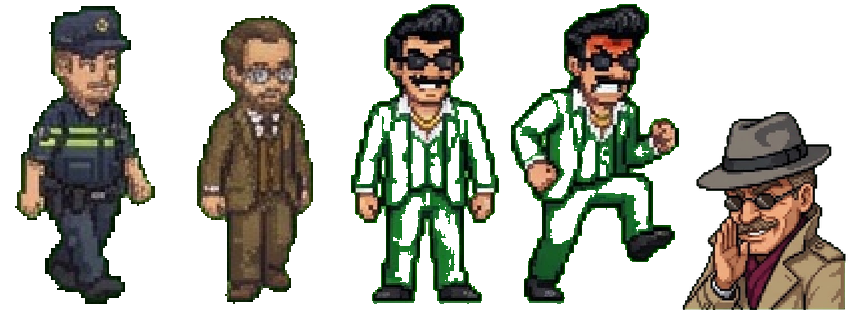
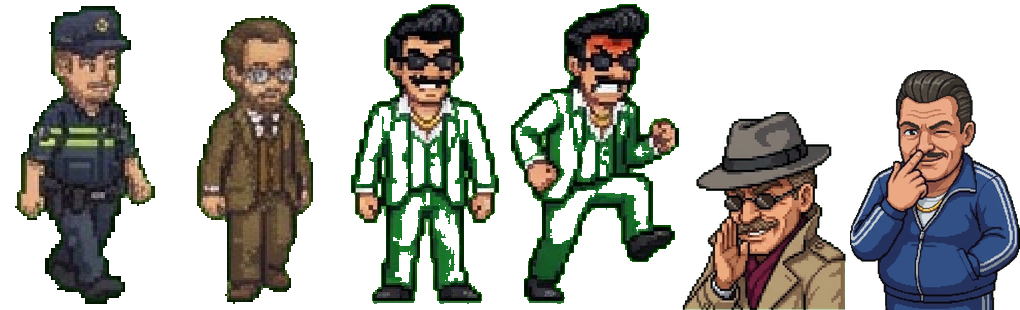
Pizzabaas: Barrie de Bink en zijn klusjes tegen Luigi, ruzie en vrede
Claude-Session: https://claude.ai/code/session_01A1NZDKEqH4AvFTuhgNYDbP

diff --git a/pizzabaas.html b/pizzabaas.html
@@ -66,7 +66,7 @@
   #vraagkaart { text-align: center; max-width: 400px; animation: plop .25s ease-out; }
   @keyframes plop { from { transform: scale(.7); opacity: 0; } }
   .vraagik { font-size: 54px; line-height: 1.1; }
-  .portret { width: 85px; height: 155px; margin: -6px auto 0; background: url(pizza/portretten.png) 0 0 / 425px 155px no-repeat; image-rendering: pixelated; } /* agent, inspecteur (uit pizza/agent-gemini.jpg, pizza/inspecteur-gemini.jpg) */
+  .portret { width: 85px; height: 155px; margin: -6px auto 0; background: url(pizza/portretten.png) 0 0 / 510px 155px no-repeat; image-rendering: pixelated; } /* agent, inspecteur (uit pizza/agent-gemini.jpg, pizza/inspecteur-gemini.jpg) */
   .vraagwie { font-weight: 800; color: #b5381c; font-size: 15px; }
   .vraagtekst { font-size: 17px; margin: 8px 0 12px; }
   .antwoord { display: block; width: 100%; text-align: left; border: 0; background: #f1e1c4; color: #3a2414; border-radius: 12px; padding: 10px 12px; margin: 7px 0 0; font: 600 15px system-ui, sans-serif; cursor: pointer; }
@@ -610,7 +610,7 @@ function openDeuren() {
   bezoeker = null; vlekken = []; rat = null; vandaag = VANDAAG(); if (S.morgen) { Object.assign(vandaag, S.morgen); S.morgen = null; } planVragen();
   if (S.bonnen && S.bonnen.tot >= S.dag) { vandaag.aankomst *= 1 + 0.4 * S.bonnen.q; if (kans(0.12 + (1 - S.bonnen.q) * 0.4)) S.verplicht = [...(S.verplicht || []), 'luigiBoos']; } // valse bonnen
   sabotageVandaag(); if (S.studentenMorgen) { vandaag.studenten = true; S.studentenMorgen = false; } // flyers bij het studentenhuis
-  vandaag.aankomst *= (BUURT[S.buurt] || BUURT.oud).aankomst; const fd = feestdag(); vandaag.aankomst *= DRUKTE[weekdag()] * (fd ? fd.aankomst : 1); vandaag.kaars = fd && fd.kaars;
+  vandaag.aankomst *= (BUURT[S.buurt] || BUURT.oud).aankomst; if (klusLoopt()) vandaag.aankomst *= 1 + KLUS[S.klus.k].bonus; /* Barrie heeft Luigi een hak gezet */ const fd = feestdag(); vandaag.aankomst *= DRUKTE[weekdag()] * (fd ? fd.aankomst : 1); vandaag.kaars = fd && fd.kaars;
   if (laatsteVanDeMaand() && S.belasting > 0) vraagTijden.push(-1); // de inspecteur komt vandaag (een vraag met voorrang)
   setTimeout(() => meld(fd ? fd.tekst : ['Maandag: rustig dagje.', '', '', '', 'Vrijdagavond: het wordt druk!', 'Zaterdagavond: de drukste avond van de week!', 'Zondag: gezinnen en opa\'s en oma\'s.'][weekdag()] || ''), 300);
   maakPersoneel(); kies = null; sluitMenu(); tekenKnoppen(); wegLog = [];
@@ -627,6 +627,7 @@ function eindeDag() {
     if (S.geld < 0) { manWeg = `${M.n} is ontslag genomen: "Geen loon, geen ${M.n.split(' ').pop()}."`; S.manager = null; }
     else if (S.manager.wie == 'bruno' && S.manager.dagen % 5 == 4) S.verplicht = [...(S.verplicht || []), 'opslag']; } // Bruno wil opslag
   maakPersoneel(); // omzet en fooi zijn al verrekend; de inkoop (tel.ing) nu pas
+  if (S.ruzie > 0) { if (!S.sabotage && !(S.luigiRust > S.dag) && kans(S.ruzie / 300)) S.sabotage = pak(['rat', 'stinkbom', 'keuring']); S.ruzie = Math.max(0, S.ruzie - 5); } // ruzie met Luigi: hij slaat terug, en het zakt langzaam
   S.omzetGisteren = tel.omzet; const lening = [...aflossen(), ...belastingAvond(totaal)];
   const rommel = vlekken.length; S.vuil = (S.vuil || 0) + rommel * 0.5; vlekken = []; // wat er blijft liggen maakt de zaak viezer (keuringsdienst!)
   const top = Object.entries(tel.verkocht).sort((a, b) => b[1] - a[1])[0];
@@ -913,6 +914,11 @@ const VRAGEN = [
     a: [['Natuurlijk, Bruno. Je verdient het.', () => { if (S.manager) S.manager.opslag = (S.manager.opslag || 0) + 15; return 'Bruno kust je op beide wangen. "Grazie, signore!"'; }],
       ['Nee, daar is geen geld voor.', () => { if (Math.random() < 0.4 && S.manager) { S.manager = null; man = null; return 'Bruno zet zijn hoed op. "Dan ga ik naar Luigi." Weg is hij. (Je hebt geen manager meer.)'; } return 'Bruno zucht diep. "Va bene. Voorlopig."'; }],
       ['Hier, een fles van onze beste wijn.', () => { ge(-25); if (Math.random() < 0.6) return 'Bruno ruikt eraan. "Ah, een Barolo! Voor nu ben ik tevreden." (− € 25)'; if (S.manager) S.manager.opslag = (S.manager.opslag || 0) + 15; return 'Bruno: "Wijn betaalt mijn huur niet." Hij krijgt de opslag toch. (− € 25, en € 15 per dag extra)'; }] ] },
+  { id: 'barrie', ik: '🕶', portret: 5, rij: 4, wie: 'Barrie de Bink', kans: 6, als: () => !S.zaak && S.achterkamer && !S.barrie && S.gesaboteerd >= S.dag - 5,
+    vraag: 'Een man in een blauw trainingspak schuift aan bij de toonbank en fluistert: "Ik hoorde dat er laatst wat… misging bij jou. Rat? Stinkbom? Toevallig van de overkant, hè?"',
+    a: [['Ik ga naar de politie.', () => '"De politie. Ook goed." Hij tikt tegen zijn neus en eet rustig zijn pizza op.'],
+      ['Dat zal wel toeval zijn.', () => '"Toeval, ja. Net als mijn Rolex." Hij grijnst en vertrekt.'],
+      ['Wraak is een gerecht dat je koud serveert.', () => { S.barrie = S.dag; if (bezoeker) bezoeker.achter = true; return 'Barrie knikt langzaam. "Dan spreken we elkaar in je achterkamer, baas. Ik weet de weg." Hij klapt het luikje in de toonbank omhoog en loopt zo je keuken in…'; }] ] },
   { id: 'gleufhoed', ik: '🎩', portret: 4, rij: 3, wie: 'Gerrit Gleufhoed', kans: 4, als: () => S.spullen.some((s) => s.t == 'schilderij') && !S.achterkamer,
     vraag: 'Hij staat al een tijdje naar je schilderij te kijken. "Wat een mooi schilderij… Wie is de schilder?"',
     a: [['Dat heeft mijn neefje gemaakt.', () => 'Hij knikt beleefd. "Talentvol neefje." Hij eet zijn pizza en vertrekt.'],
@@ -978,7 +984,7 @@ function stapBezoeker(dt) {
   else if (b.st == 'luik' && loopNaar(b, [LUIK_X, KEUKEN + 0.7], 2.4, dt)) b.st = 'keuken';
   else if (b.st == 'keuken' && beweeg(b, [LUIK_X, 0.9], 1.8, dt)) { b.st = 'deur'; b.t = 0; ding(220, 0.15, 'square', 0.04); } // kriep
   else if (b.st == 'deur') { b.t += dt; deurOpen = Math.min(1, b.t * 2); if (b.t > 0.6) beweeg(b, [LUIK_X, -0.3], 1.5, dt);
-    if (b.t > 1.6) { bezoeker = null; deurOpen = 0; achterPauze = true; meld('Gerrit wacht in de achterkamer…', 3000); toonAchterkamer(); } }
+    if (b.t > 1.6) { bezoeker = null; deurOpen = 0; achterPauze = true; meld((b.v.id == 'barrie' ? 'Barrie' : 'Gerrit') + ' wacht in de achterkamer…', 3000); toonAchterkamer(); } }
   luikOpen = b && b.y < KEUKEN + 1 && b.y > KEUKEN - 1.2 && Math.abs(b.x - LUIK_X) < 0.6 ? 1 : 0; // het luik klapt open als hij erdoor loopt
 }
 // het klapluik in de toonbank (midden, tussen de twee uitgiftes) en het geheime deurtje achter in de keuken (naar de achterkamer).
@@ -1036,6 +1042,24 @@ function toonVraag(v) {
 const DOEK = 40; // verf en doek
 function nieuweOpdracht() { const v = Math.floor(Math.random() * 6); S.opdracht = { v, prijs: 250 + Math.round(Math.random() * 7) * 50, tot: S.dag + 5 }; }
 const schilderijPlaatje = (v, w) => `<span class="mini" style="width:${w}px;height:${w}px;background-size:${w * 6}px ${w}px;background-position:${-v * w}px 0"></span>`;
+// ---------- Barrie de Bink: Luigi dwarszitten (S.barrie = sinds wanneer; S.klus = { k, tot } loopt; S.ruzie 0-100 met Luigi) ----------
+// Een klus geeft een paar dagen meer klanten (Luigi's klanten komen naar jou), maar soms wordt Barrie gesnapt (boete) of ziet Luigi het
+// (morgen wraak). Hoe hoger de ruzie, hoe vaker Luigi uit zichzelf terugslaat (eindeDag). Vrede met een fles: S.luigiRust, ruzie weg.
+const KLUS = {
+  stinkbom: { n: 'Stinkbom bij Luigi', ik: '💨', prijs: 80, bonus: 0.15, dagen: 3, risico: 0.15, ruzie: 20, tekst: 'Een stinkbom onder Luigi\'s toonbank. Het hele plein ruikt naar rotte eieren, en zijn klanten komen naar jou!' },
+  ratten: { n: 'Ratten loslaten bij Luigi', ik: '🐀', prijs: 120, bonus: 0.25, dagen: 3, risico: 0.25, ruzie: 35, tekst: 'Barrie laat een doos ratten los in Luigi\'s keuken. Gillende klanten rennen naar buiten… en naar jou!' },
+  recensie: { n: 'Nep-recensie: "smaakt naar karton"', ik: '⭐', prijs: 50, bonus: 0.1, dagen: 5, risico: 0.1, ruzie: 10, tekst: 'Op internet staat nu: "Luigi\'s pizza smaakt naar natte kartonnen doos. 1 ster." Veel mensen lezen het.' },
+  keuring: { n: 'Keuringsdienst tippen', ik: '📋', prijs: 30, bonus: 0.2, dagen: 2, risico: 0.2, ruzie: 25, tekst: 'Een anoniem telefoontje… De keuringsdienst staat bij Luigi op de stoep. Zijn zaak gaat twee dagen dicht!' } };
+const VREDE = { limoncello: { n: 'Fles limoncello', ik: '🍋', prijs: 30, dagen: 5 }, grappa: { n: 'Fles grappa', ik: '🥃', prijs: 45, dagen: 8 } };
+const klusLoopt = () => S.klus && S.klus.tot >= S.dag;
+let barrieUit = '';
+function doeKlus(k) {
+  const d = KLUS[k]; ge(-d.prijs); S.ruzie = Math.min(100, (S.ruzie || 0) + d.ruzie);
+  if (kans(d.risico)) { if (kans(0.5)) { ge(-200); S.rep = Math.max(0, S.rep - 8); return `🚨 Barrie is gesnapt! Op het bureau zei hij meteen dat jij hem stuurde. € 200 boete, en de hele stad praat erover (populariteit −8).`; }
+    S.sabotage = pak(['rat', 'stinkbom', 'keuring']); S.luigiRust = 0; S.ruzie = Math.min(100, S.ruzie + 15); return `😬 Luigi zag Barrie wegrennen! "Dit is oorlog!" Morgen neemt hij wraak…`; }
+  S.klus = { k, tot: S.dag + d.dagen }; return `${d.ik} Gelukt! ${d.tekst} (${d.dagen} dagen meer klanten)`;
+}
+const ruzieTekst = () => { const z = S.ruzie || 0; return z < 1 ? '😇 vrede' : z < 30 ? '😐 rustig' : z < 60 ? '😠 gespannen' : '🤬 oorlog'; };
 function toonAchterkamer() {
   if (!S.opdracht || S.opdracht.tot < S.dag) nieuweOpdracht();
   const o = S.opdracht, klaar = (S.vervalsingen || []);
@@ -1049,9 +1073,16 @@ function toonAchterkamer() {
       : S.bonnen && S.bonnen.tot >= S.dag ? `Er zijn bonnen in omloop (${Math.round(S.bonnen.q * 100)}% echt), nog tot ${esc(datumLang(S.bonnen.tot))}. Luigi's klanten komen naar jou!` : `Klaar om te drukken. Valse bonnen "50% korting bij Luigi" (die in jouw zaak gelden) lokken zijn klanten drie dagen naar jou.`}
       <br><small>Hoe slordiger gedrukt, hoe sneller Luigi het doorheeft.</small></div></div>
     <div class="rij">${!S.pers ? `<button class="knop rood" id="perskoop" ${S.geld < PERS ? 'disabled' : ''}>🖨 Drukpers opknappen (€ ${PERS})</button>` : `<button class="knop rood" id="druk" ${S.geld < INKT || (S.bonnen && S.bonnen.tot >= S.dag) ? 'disabled' : ''}>🖨 Bonnen drukken (€ ${INKT} inkt)</button>`}<button class="knop" id="achterdicht">Deur dicht</button></div>
+    ${S.barrie ? `<div class="opdracht"><div class="portret" style="background-position:-425px 0;flex:none;margin:0"></div><div><b>Barrie de Bink</b><br>${barrieUit ? esc(barrieUit) : klusLoopt() ? '"Luigi heeft het even druk met… problemen. Hehe."' : '"Zeg het maar, baas. Wat mag het zijn?"'}
+      <br><small>Ruzie met Luigi: <b>${ruzieTekst()}</b>${S.luigiRust > S.dag ? ' (wapenstilstand)' : ''}. Hoe meer ruzie, hoe vaker Luigi terugslaat.</small></div></div>
+      <div class="rij">${Object.entries(KLUS).map(([k, d]) => `<button class="knop rood" data-klus="${k}" ${klusLoopt() || S.geld < d.prijs ? 'disabled' : ''}>${d.ik} ${esc(d.n)} (€ ${d.prijs})</button>`).join('')}</div>
+      <div class="rij">${Object.entries(VREDE).map(([k, d]) => `<button class="knop" data-vrede="${k}" ${!S.ruzie || S.geld < d.prijs ? 'disabled' : ''}>${d.ik} Vrede: ${esc(d.n)} voor Luigi (€ ${d.prijs})</button>`).join('')}</div>` : ''}
     <p class="buurt">Pas op: er loopt een kunstrechercheur door de stad. Laat geen vervalsingen te lang liggen.</p>`;
   $('achter').classList.remove('verborgen');
-  $('achterdicht').onclick = () => $('achter').classList.add('verborgen');
+  $('achterdicht').onclick = () => { $('achter').classList.add('verborgen'); barrieUit = ''; };
+  $('achterkaart').querySelectorAll('[data-klus]').forEach((b) => b.onclick = () => { barrieUit = doeKlus(b.dataset.klus); kassa(); bewaar(); tekenKnoppen(); toonAchterkamer(); });
+  $('achterkaart').querySelectorAll('[data-vrede]').forEach((b) => b.onclick = () => { const d = VREDE[b.dataset.vrede]; ge(-d.prijs); S.ruzie = 0; S.luigiRust = S.dag + d.dagen;
+    barrieUit = `Barrie brengt Luigi een ${d.n.toLowerCase()}. Luigi snuift, drinkt hem in één keer leeg en mompelt: "Va bene. Even geen ruzie." (${d.dagen} dagen wapenstilstand)`; bewaar(); tekenKnoppen(); toonAchterkamer(); });
   if ($('perskoop')) $('perskoop').onclick = () => { S.geld -= PERS; S.pers = true; kassa(); bewaar(); tekenKnoppen(); toonAchterkamer(); };
   if ($('druk')) $('druk').onclick = () => { S.geld -= INKT; bewaar(); tekenKnoppen(); toonDrukken(); };
   $('schilder').onclick = () => { S.geld -= DOEK; tel.kosten = (tel.kosten || 0) + DOEK; bewaar(); tekenKnoppen(); toonAtelier(o.v); };
@@ -1189,7 +1220,7 @@ function toonStad(plek) {
     h += `<p>Agent Jansen zit achter de balie met een kop koffie en een gevulde koek. "${pak(['Rustig dagje vandaag.', 'Komt u een fiets ophalen? Nee? Jammer, we hebben er driehonderd.', 'Lekkere pizza had u laatst, trouwens.'])}"</p>${kan ? '<p>Je zou aangifte kunnen doen tegen Luigi voor die sabotage…</p>' : ''}`;
     if (kan) knoppen = `<button class="knop rood" id="aangifte">📝 Aangifte doen tegen Luigi</button>`;
   }
-  if (plek == 'luigi') h += `<p>Je gluurt door het raam van Pizzeria Luigi. ${pak(['Het is er vol met studenten. Hij verkoopt pizza\'s voor € 6!', 'Het is er stil. Luigi zit zelf aan een tafel, met zijn zonnebril op, binnen.', 'Luigi staat te telefoneren en kijkt boos naar jouw zaak aan de overkant.', 'Er staat een bord: "Pizza Kapsalon, NIEUW!" Hmm.'])}</p>`;
+  if (plek == 'luigi') h += `<p>Je gluurt door het raam van Pizzeria Luigi. ${klusLoopt() ? { stinkbom: 'Er hangt een groene walm voor de deur. Voorbijgangers knijpen hun neus dicht. Hehe.', ratten: 'Er staat een bord: "Tijdelijk gesloten wegens… dieren." Luigi staat met een bezem in de deuropening.', recensie: 'Luigi zit achter zijn laptop en typt woedend: "KARTON?!"', keuring: 'Er zit een rode sticker op de deur: GESLOTEN door de keuringsdienst.' }[S.klus.k] : pak(['Het is er vol met studenten. Hij verkoopt pizza\'s voor € 6!', 'Het is er stil. Luigi zit zelf aan een tafel, met zijn zonnebril op, binnen.', 'Luigi staat te telefoneren en kijkt boos naar jouw zaak aan de overkant.', 'Er staat een bord: "Pizza Kapsalon, NIEUW!" Hmm.'])}</p>`;
   if (plek == 'turk') h += `<p>Ahmet zwaait vanachter het draaiende spit. "${pak(['Hé buurman! Jij pizza, ik shoarma, samen houden we Luigi klein!', 'Probeer mijn knoflooksaus, daar krijg je haar op je borst van!', 'Kapsalon is eigenlijk ook een soort pizza, toch? Geintje!'])}"</p>`;
   if (plek == 'kunst') h += `<p>Een stille zaal vol schilderijen. Een mevrouw met een bril op het puntje van haar neus kijkt je streng aan. "Niet aankomen." ${S.achterkamer ? 'Je bekijkt de Van Goghs heel goed… voor later.' : ''}</p><p class="buurt">(Hier kun je later schilderijen lenen.)</p>`;
   if (plek == 'studenten') { h += `<p>Fietsen tegen de gevel, muziek uit een open raam en een bank op het grasveld. "Pizza? Als het goedkoop is, zijn wij er!"</p>`; knoppen = `<button class="knop rood" id="flyers" ${S.geld < 15 || S.flyers == S.dag ? 'disabled' : ''}>📄 Flyers uitdelen (€ 15)</button>`; }

diff --git a/pizza/CLAUDE.md b/pizza/CLAUDE.md
@@ -128,3 +128,10 @@ Stoelsoorten (`STOELSOORT`, `s.stijl`, `stijlVan`; oud `s.hout` = kussen): blauw
 zonder leuning); kiezen in het stoelmenu met kleurknopjes, nieuwe stoelen krijgen de laatst gekozen soort (`S.stoelStijl`). Staat er maar één
 stoel aan een kant van een tafel, dan staat hij (en wie erop zit) recht voor het midden van die kant (`indeling().plekVan`, alleen getekend: de
 stoel bezet nog steeds zijn eigen tegel). Stadskaart op de telefoon: 920 px breed in `#kaartrol` (schuiven met een vinger), begint in het midden.
+Barrie de Bink (vraag 'barrie': komt in de eerste zaak als je de achterkamer hebt en Luigi je de laatste 5 dagen saboteerde; bezoeker rij 4 in
+`pizza/bezoekers.png`, portret 5 in `pizza/portretten.png`, uit `pizza/barrie-gemini.jpg`; zijn derde rugplaatje was eigenlijk van voren en is
+vervangen). Antwoord C ("Wraak is een gerecht…") = `S.barrie`, hij loopt net als Gerrit door het luik naar de achterkamer. Daar het klusjesbord
+`KLUS` (stinkbom, ratten, nep-recensie, keuringsdienst tippen): kost geld, geeft `dagen` lang meer klanten (`S.klus`, `bonus` in openDeuren),
+maar met kans `risico` gesnapt (€200 boete, populariteit −8) of ziet Luigi het (morgen sabotage). Elke klus verhoogt `S.ruzie` (0-100,
+`ruzieTekst`); elke avond kans ruzie/300 dat Luigi zelf saboteert, ruzie −5. Vrede (`VREDE`): limoncello (5 dagen) of grappa (8 dagen) =
+`S.luigiRust`, ruzie 0. Op de stadskaart zie je bij Luigi wat er aan de hand is.

diff --git a/pizza/PLAN.md b/pizza/PLAN.md
@@ -176,6 +176,8 @@ Vellen klaar voor later (26 okt): managers `pizza/manager-kevin-gemini.jpg` (goe
 - Luigi een hak zetten: nieuwe dubieuze figuur (voorstel Barrie de Bink), komt pas na sabotage van Luigi; goed antwoord = hij in de achterkamer.
   Klusjesbord: stinkbom, ratten, nep-recensie, keuringsdienst tippen, (bezorgscooter van Luigi lek); kans op betrapt worden; Luigi neemt wraak
   (ruzie-meter, vrede sluiten met grappa). Effect: Luigi's klanten komen naar jou, Luigi's pand op de kaart stinkt/is dicht.
+- **Gedaan 27 okt**: Barrie de Bink met klusjesbord, ruzie-meter en vrede (limoncello/grappa); meer stoelsoorten; stadskaart op de telefoon.
+  Nog: minispel bij de stinkbom (wegsluipen), crypto, bezorgdienst, stadskaart met ⭐ per zaak.
 - Afspraken Marcel (27 okt): Barrie de Bink (vel `pizza/barrie-gemini.jpg`, blauw trainingspak); vrede met Luigi tijdelijk, met grappa of
   limoncello. Verkoop van vervalste schilderijen wordt (soms) in crypto betaald: je kiest welke munt, de koers zie je dan niet (gokje).
   Crypto omwisselen naar echt geld: bij een wisselkantoor in de stad (met kosten) of op de laptop in de achterkamer.
